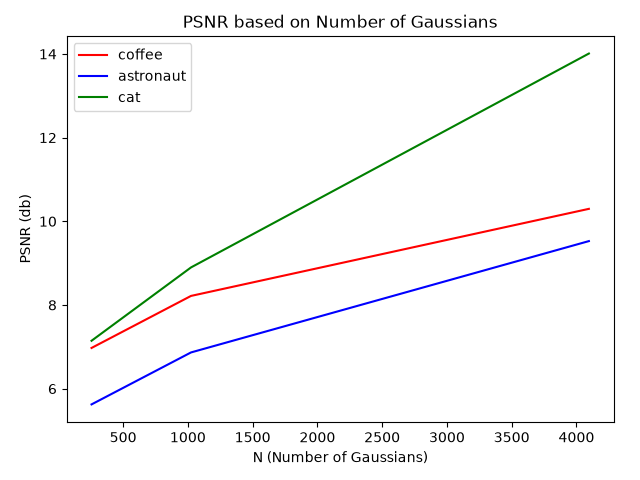
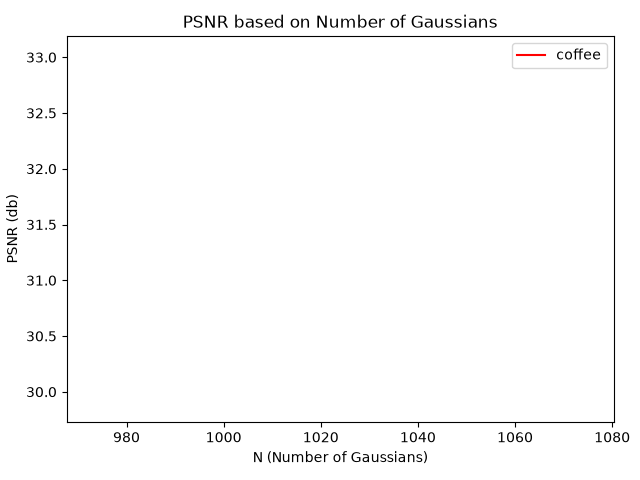
fixed densification

diff --git a/fit.py b/fit.py
@@ -58,9 +58,39 @@ def fit_2D(N, target, max_count, densification=True):
         # By learning log scale and then exp, we guarantee scale is positive
         # Because exp multiply, also means when we add to log scale we multiply
         # original scale so same percentage increase regardless of org size.
+        # if step > 1800:
+        #     check_finite("mu", mu, step)
+        #     check_finite("log_s", log_s, step)
+        #     check_finite("theta", theta, step)
+        #     check_finite("color", color, step)
+        #     check_finite("op_raw", op_raw, step)
         s = log_s.exp()
+        # if step > 1800:
+        #     check_finite("scale", s, step)
         Sigma = covariance_2d(s, theta)
+        # if step > 1800:
+        #     check_finite("Sigma", Sigma, step)
+        #     print(
+        #         f"scale: min={s.min().item():.3e}, "
+        #         f"max={s.max().item():.3e}"
+        #     )
+
+        #     print(
+        #         f"log_s: min={log_s.min().item():.3e}, "
+        #         f"max={log_s.max().item():.3e}"
+        #     )
+    
         img   = render(mu, Sigma, color.sigmoid(), op_raw.sigmoid(), depth_order(mu), H, W)
+
+        # if step > 1800:
+        #     print("After render")
+        #     check_finite("img", img, step)
+        #     check_finite("loss", loss, step)
+        #     check_finite("mu.grad", mu.grad, step)
+        #     check_finite("log_s.grad", log_s.grad, step)
+        #     check_finite("theta.grad", theta.grad, step)
+        #     check_finite("color.grad", color.grad, step)
+        #     check_finite("op_raw.grad", op_raw.grad, step)
 
         # torch.mps.synchronize()
         # t1 = time.perf_counter()
@@ -68,6 +98,15 @@ def fit_2D(N, target, max_count, densification=True):
         loss  = ((img - target) ** 2).mean()
         
         opt.zero_grad(); loss.backward(); 
+
+        # if step > 1800:
+        #     print("After backwards")
+        #     check_finite("loss", loss, step)
+        #     check_finite("mu.grad", mu.grad, step)
+        #     check_finite("log_s.grad", log_s.grad, step)
+        #     check_finite("theta.grad", theta.grad, step)
+        #     check_finite("color.grad", color.grad, step)
+        #     check_finite("op_raw.grad", op_raw.grad, step)
 
         # torch.mps.synchronize()
         # t2 = time.perf_counter()
@@ -81,6 +120,15 @@ def fit_2D(N, target, max_count, densification=True):
 
         opt.step()
 
+        # if step > 1800:
+        #     print("After loss")
+        #     check_finite("loss", loss, step)
+        #     check_finite("mu.grad", mu.grad, step)
+        #     check_finite("log_s.grad", log_s.grad, step)
+        #     check_finite("theta.grad", theta.grad, step)
+        #     check_finite("color.grad", color.grad, step)
+        #     check_finite("op_raw.grad", op_raw.grad, step)
+
         # torch.mps.synchronize()
         # t3 = time.perf_counter()
 
@@ -88,14 +136,12 @@ def fit_2D(N, target, max_count, densification=True):
         # print("backward:", t2 - t1)
         # print("optimizer:", t3 - t2)
 
-        if step == 1 or step % densify_every == 0:
-            psnr = -10 * torch.log10(loss)
-            # print(f"Step {step} PSNR: {psnr}")
-
         # Don't densify on last iteration bc won't have time to adapt cloned/
         # split Gaussians afterwards
         if step % densify_every == 0 and step < 2000:
             # save_normalized_image(f"debug/{step}.png", img.detach())
+            psnr = -10 * torch.log10(loss)
+            print(f"Step {step} PSNR: {psnr}")
 
             if densification:
                 gaussians = densify((mu, log_s, theta, color, op_raw), grad_mag,max_count, W, H)
@@ -109,6 +155,7 @@ def fit_2D(N, target, max_count, densification=True):
                     mu.shape[0],
                     device=device
                 )
+
                 # Restart Adam
                 opt = torch.optim.Adam([mu, log_s, theta, color, op_raw], lr=1e-2)
     return mu, log_s, theta, color, op_raw
@@ -134,3 +181,15 @@ def evaluate(mu, log_s, theta, color, op_raw, target):
     loss  = ((img - target) ** 2).mean()
     psnr = -10 * torch.log10(loss)
     return (img, psnr)
+
+
+def check_finite(name, x, step):
+    if x is None:
+        print(f"{name} is None at step {step}")
+        return True
+
+    if not torch.isfinite(x).all():
+        print(f"NON-FINITE {name} at step {step}")
+        assert False
+
+    return True

diff --git a/main.py b/main.py
@@ -11,7 +11,6 @@ from image import load_normalized_image, save_normalized_image
 # ---------------------------------------------------------------------
 densification_runs = 2
 gaussian_budget = [1024]
-init_N = 128
 images = [
     "train_images/coffee",
     # "train_images/astronaut", 
@@ -38,11 +37,11 @@ def train_2D():
         for image in images:
             # fit_2D will move it to GPU if needed
             target = loaded_images[image]
-            for densify in range(densification_runs):
+            for densify in range(1, densification_runs):
                 print(f"Training for image {image} and budget: {budget} and densifcation: {densify}")
                 # Start with 1/4 of target so can have good approximation in first
                 # iterations before densify and can fully densify at least twice
-                start_N = init_N if densify else budget
+                start_N = budget // 2 if densify else budget
                 mu, log_s, theta, color, op_raw = fit_2D(start_N, target, budget, densification=bool(densify))
                 img, psnr = evaluate(mu, log_s, theta, color, op_raw, target)
 

diff --git a/gaussian.py b/gaussian.py
@@ -32,6 +32,7 @@ def covariance_2d(scale, theta):
     return R @ S @ S.mT @ R.mT
 
 # Faster version by chatGPT by breaking down product
+# Naive version writte by me below
 def gaussian_weight(xy, mu, Sigma):
     # (P, N)
     dx = xy[:, None, 0] - mu[None, :, 0]

diff --git a/densification.py b/densification.py
@@ -1,7 +1,7 @@
 import torch
 
 # densify Gaussian i if g_i > grad_threshold
-grad_threshold = 4e-7
+grad_threshold = 2e-6
 # clone if max scale <= 2% of image width, else split
  # each split child gets (parent scale / split_scale)
 size_threshold = 0.02

diff --git a/rasterize.py b/rasterize.py
@@ -3,6 +3,7 @@ import torch
 from gaussian import gaussian_weight
 
 # Faster version by chatGPT with cumprod
+# Naive version writte by me below
 def render(mu, Sigma, color, opacity, order, H, W):
     # P = H * W
 
